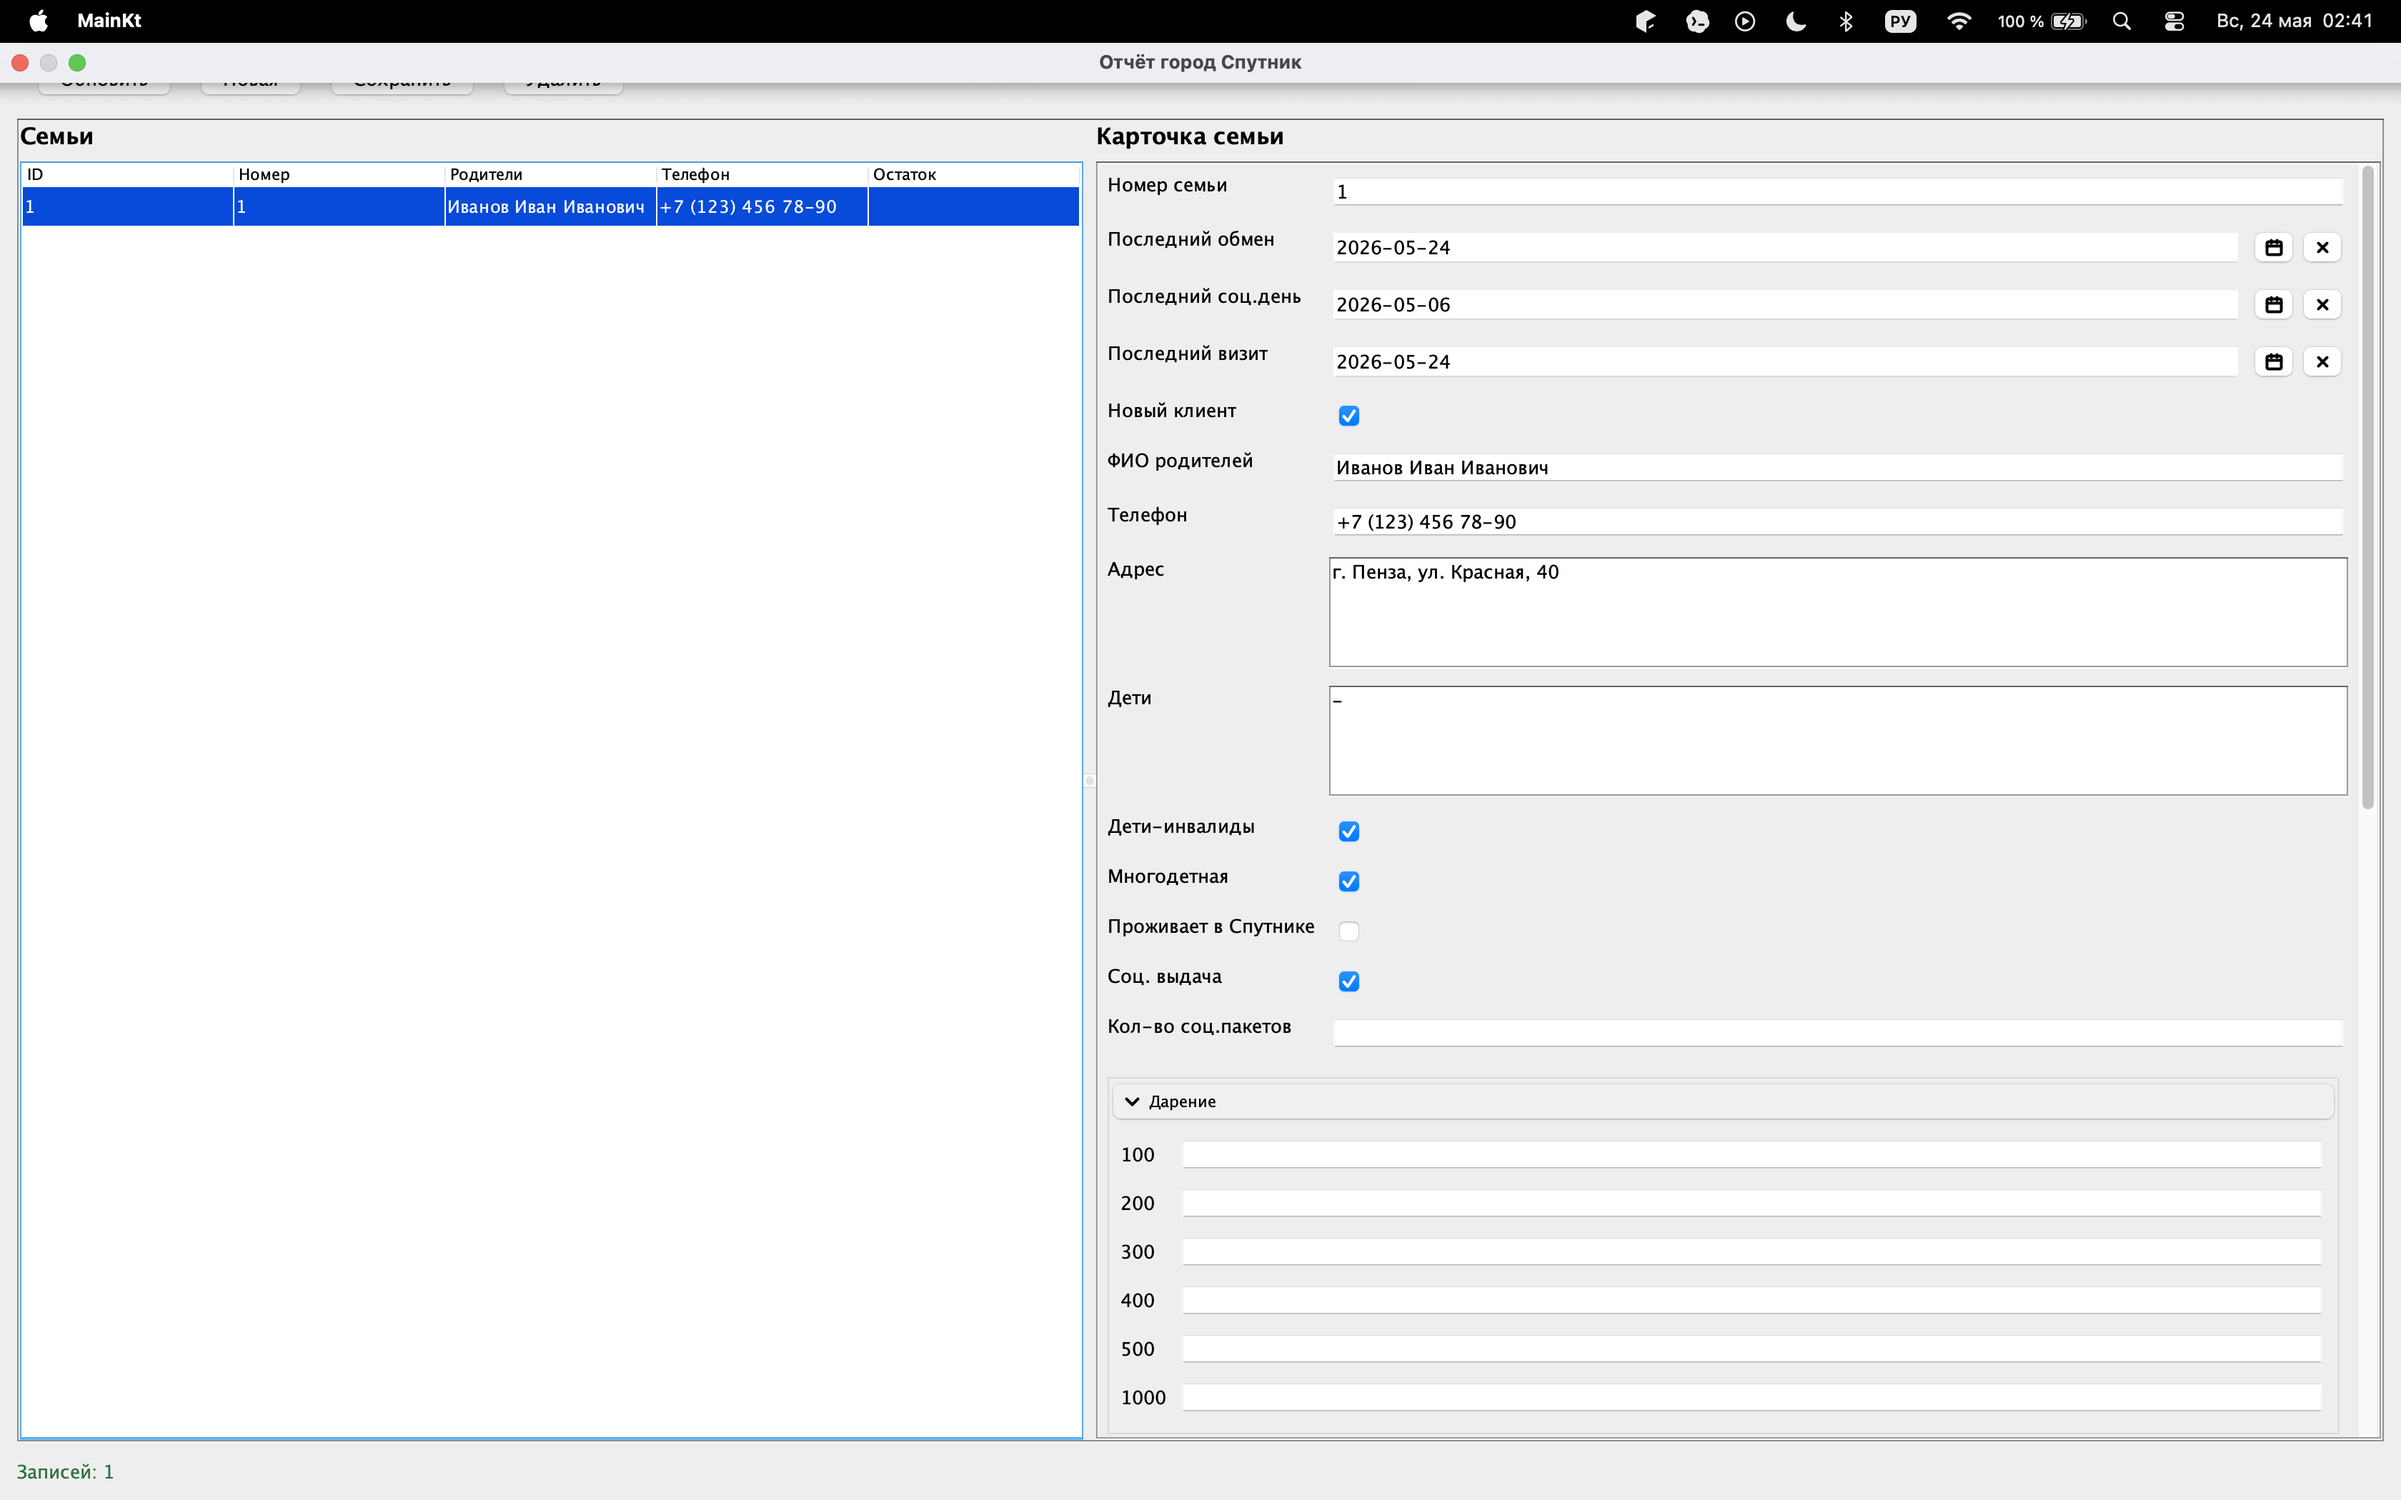
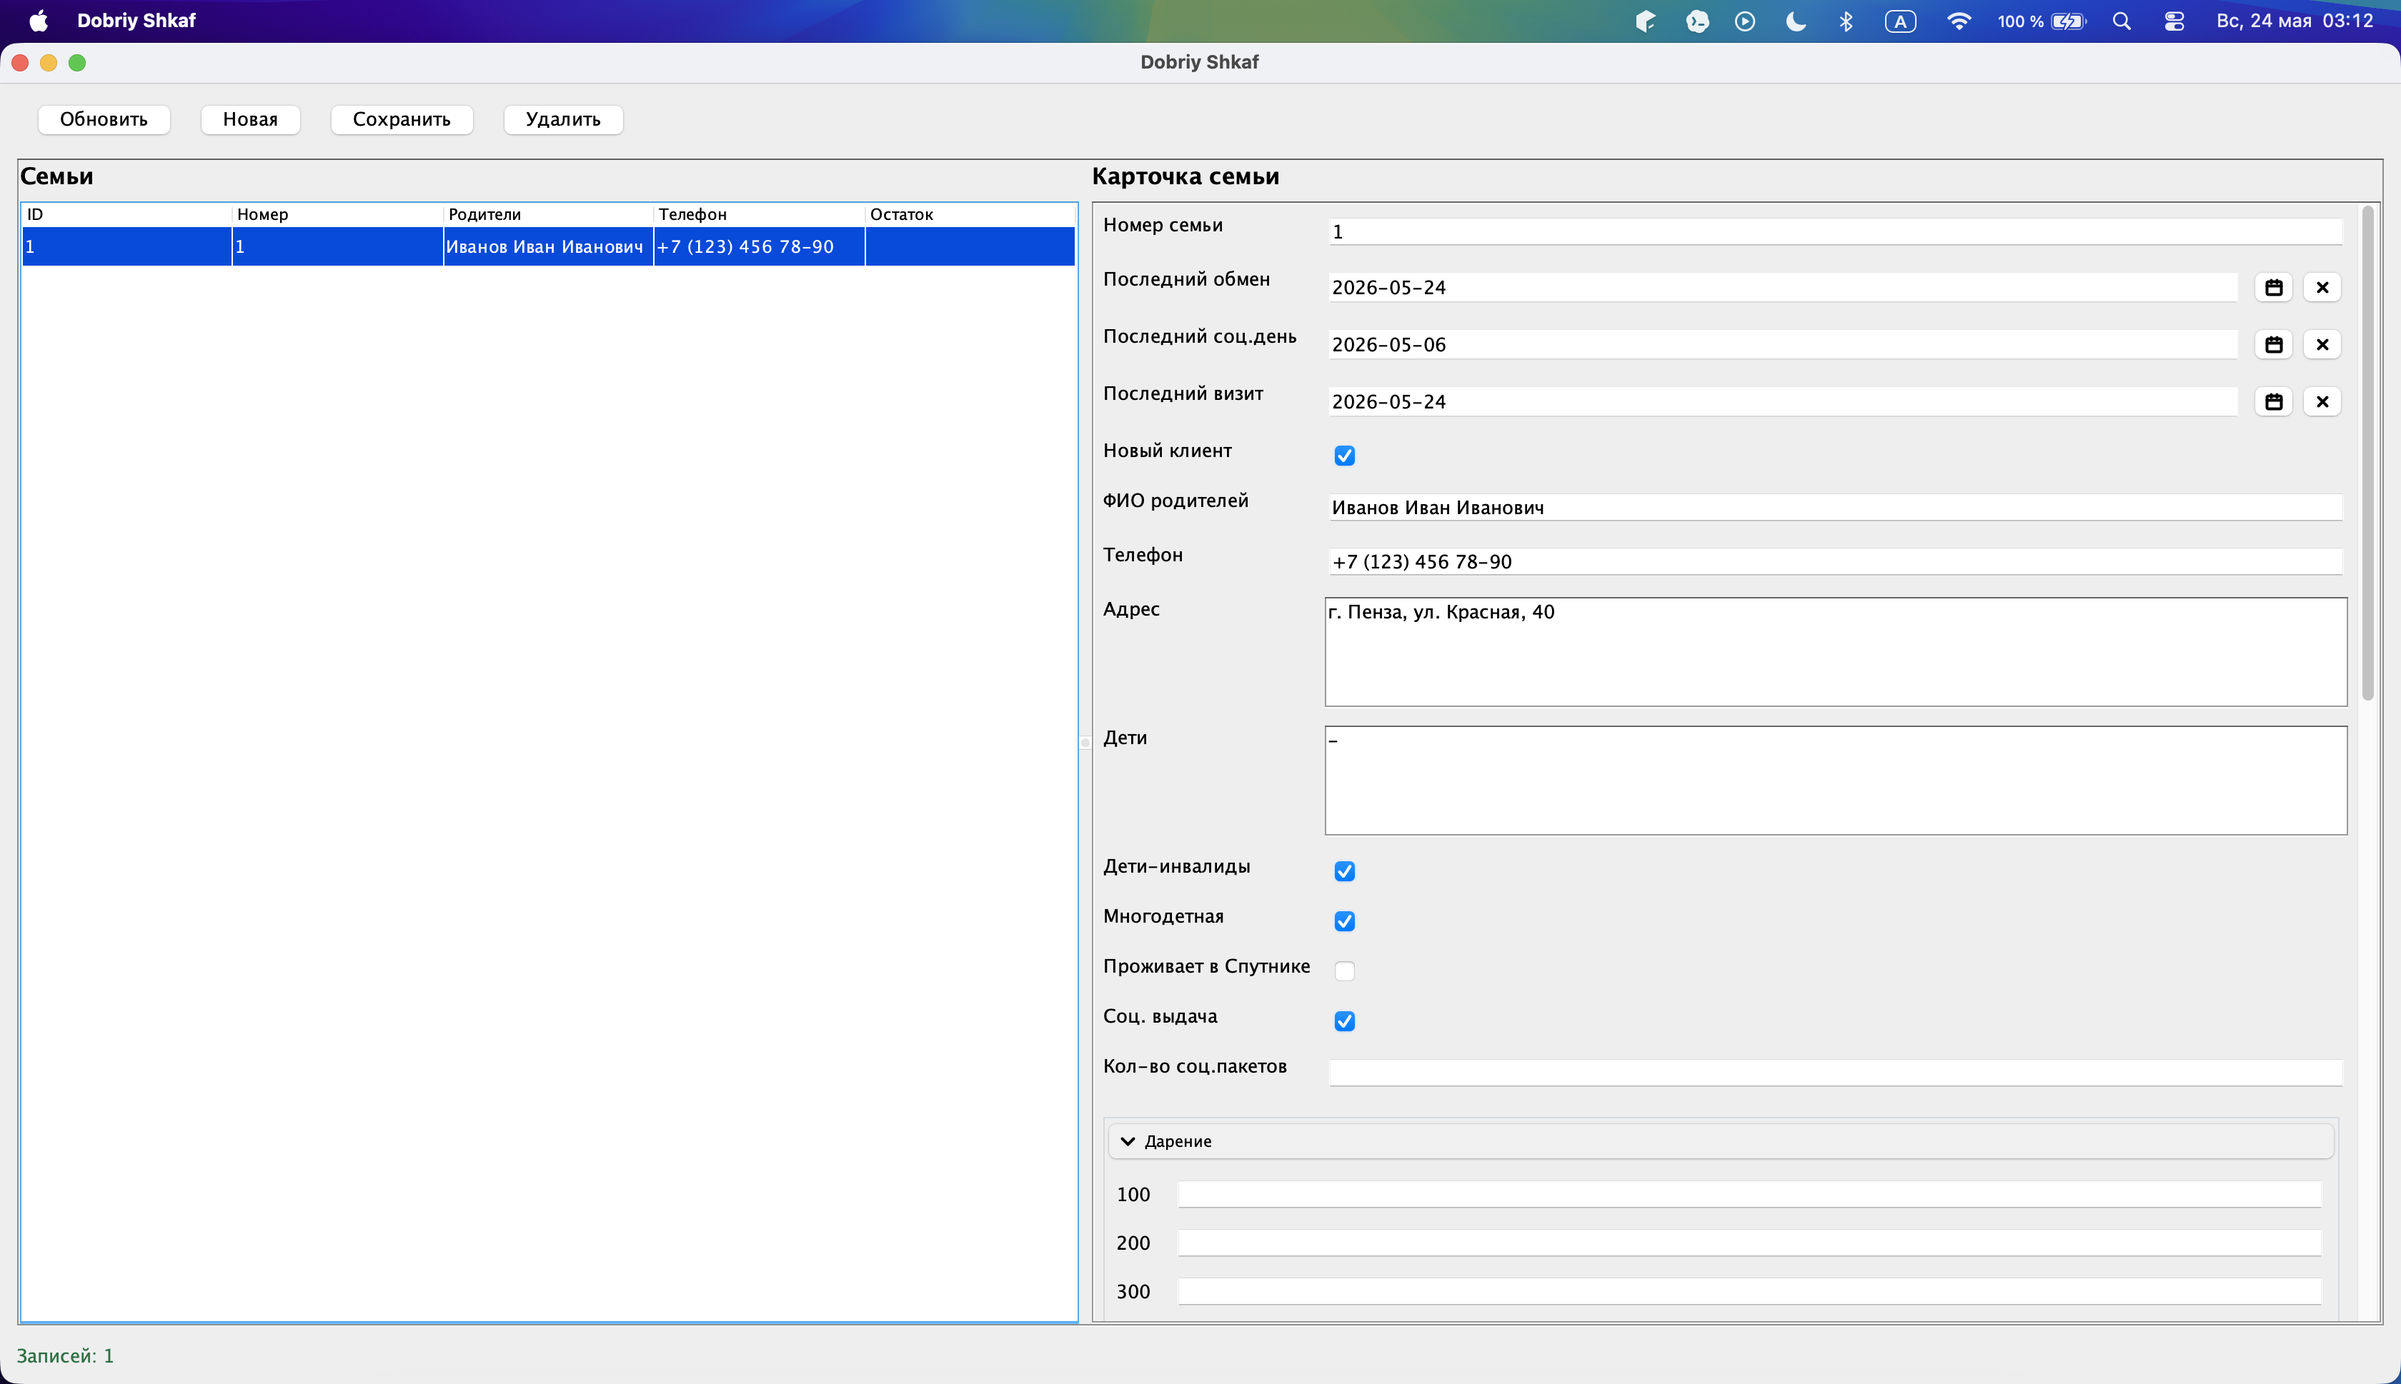
Small UI fixes

diff --git a/frontend/src/main/kotlin/com/interactme/ui/FamilyAdminFrame.kt b/frontend/src/main/kotlin/com/interactme/ui/FamilyAdminFrame.kt
@@ -19,6 +19,7 @@ import java.awt.Graphics2D
 import java.awt.GridBagConstraints
 import java.awt.GridBagLayout
 import java.awt.GridLayout
+import java.awt.Image
 import java.awt.Insets
 import java.awt.RenderingHints
 import java.time.LocalDate
@@ -46,7 +47,7 @@ import javax.swing.event.DocumentListener
 import javax.swing.table.AbstractTableModel
 
 /// Главное окно frontend-приложения для просмотра и редактирования семей.
-class FamilyAdminFrame(private val store: FamilyStore) : JFrame("Отчёт город Спутник")
+class FamilyAdminFrame(private val store: FamilyStore, private val appIcon: Image? = null) : JFrame("Dobriy Shkaf")
 {
     private val tableModel = FamiliesTableModel()
     private val table = JTable(tableModel)
@@ -66,6 +67,7 @@ class FamilyAdminFrame(private val store: FamilyStore) : JFrame("Отчёт го
     init {
         defaultCloseOperation = EXIT_ON_CLOSE
         minimumSize = Dimension(1120, 720)
+        appIcon?.let { iconImage = it }
         setLocationRelativeTo(null)
 
         contentPane = JPanel(BorderLayout(12, 12)).apply {
@@ -264,13 +266,7 @@ class FamilyAdminFrame(private val store: FamilyStore) : JFrame("Отчёт го
         deleteButton.addActionListener {
             val id = store.state.selectedId ?: return@addActionListener
 
-            val result = JOptionPane.showConfirmDialog(
-                this,
-                "Удалить семью id=$id?",
-                "Подтверждение",
-                JOptionPane.YES_NO_OPTION)
-
-            if (result == JOptionPane.YES_OPTION)
+            if (confirmDelete(id))
                 store.dispatch(FamilyIntent.DeleteSelected)
         }
 
@@ -282,6 +278,21 @@ class FamilyAdminFrame(private val store: FamilyStore) : JFrame("Отчёт го
                 store.dispatch(FamilyIntent.SelectFamily(id))
             }
         }
+    }
+
+    /// Показывает подтверждение удаления без иконки приложения в окне диалога.
+    private fun confirmDelete(id: Long): Boolean {
+        val optionPane = JOptionPane(
+            "Удалить семью id=$id?",
+            JOptionPane.PLAIN_MESSAGE,
+            JOptionPane.YES_NO_OPTION)
+
+        val dialog = optionPane.createDialog(this, "Подтверждение")
+        dialog.iconImages = emptyList<Image>()
+        dialog.isVisible = true
+        dialog.dispose()
+
+        return optionPane.value == JOptionPane.YES_OPTION
     }
 
     /// Отрисовывает новое состояние экрана.

diff --git a/frontend/src/main/kotlin/Main.kt b/frontend/src/main/kotlin/Main.kt
@@ -2,13 +2,39 @@ package org.example
 
 import com.interactme.mvi.FamilyStore
 import com.interactme.ui.FamilyAdminFrame
+import java.awt.Image
+import java.awt.Taskbar
+import javax.imageio.ImageIO
 import javax.swing.SwingUtilities
 import javax.swing.UIManager
 
 // Точка входа frontend-приложения.
+private const val APP_NAME = "Dobriy Shkaf"
+
 fun main() {
+    System.setProperty("apple.awt.application.name", APP_NAME)
+    val appIcon = loadAppIcon()
+    configureDesktopIcon(appIcon)
+
     SwingUtilities.invokeLater {
         UIManager.setLookAndFeel(UIManager.getSystemLookAndFeelClassName())
-        FamilyAdminFrame(FamilyStore()).isVisible = true
+        FamilyAdminFrame(FamilyStore(), appIcon).isVisible = true
+    }
+}
+
+private fun loadAppIcon(): Image? =
+    runCatching {
+        object {}.javaClass.getResource("/logo.png")?.let(ImageIO::read)
+    }.getOrNull()
+
+private fun configureDesktopIcon(icon: Image?) {
+    if (icon == null) return
+
+    runCatching {
+        if (Taskbar.isTaskbarSupported()) {
+            val taskbar = Taskbar.getTaskbar()
+            if (taskbar.isSupported(Taskbar.Feature.ICON_IMAGE))
+                taskbar.iconImage = icon
+        }
     }
 }
